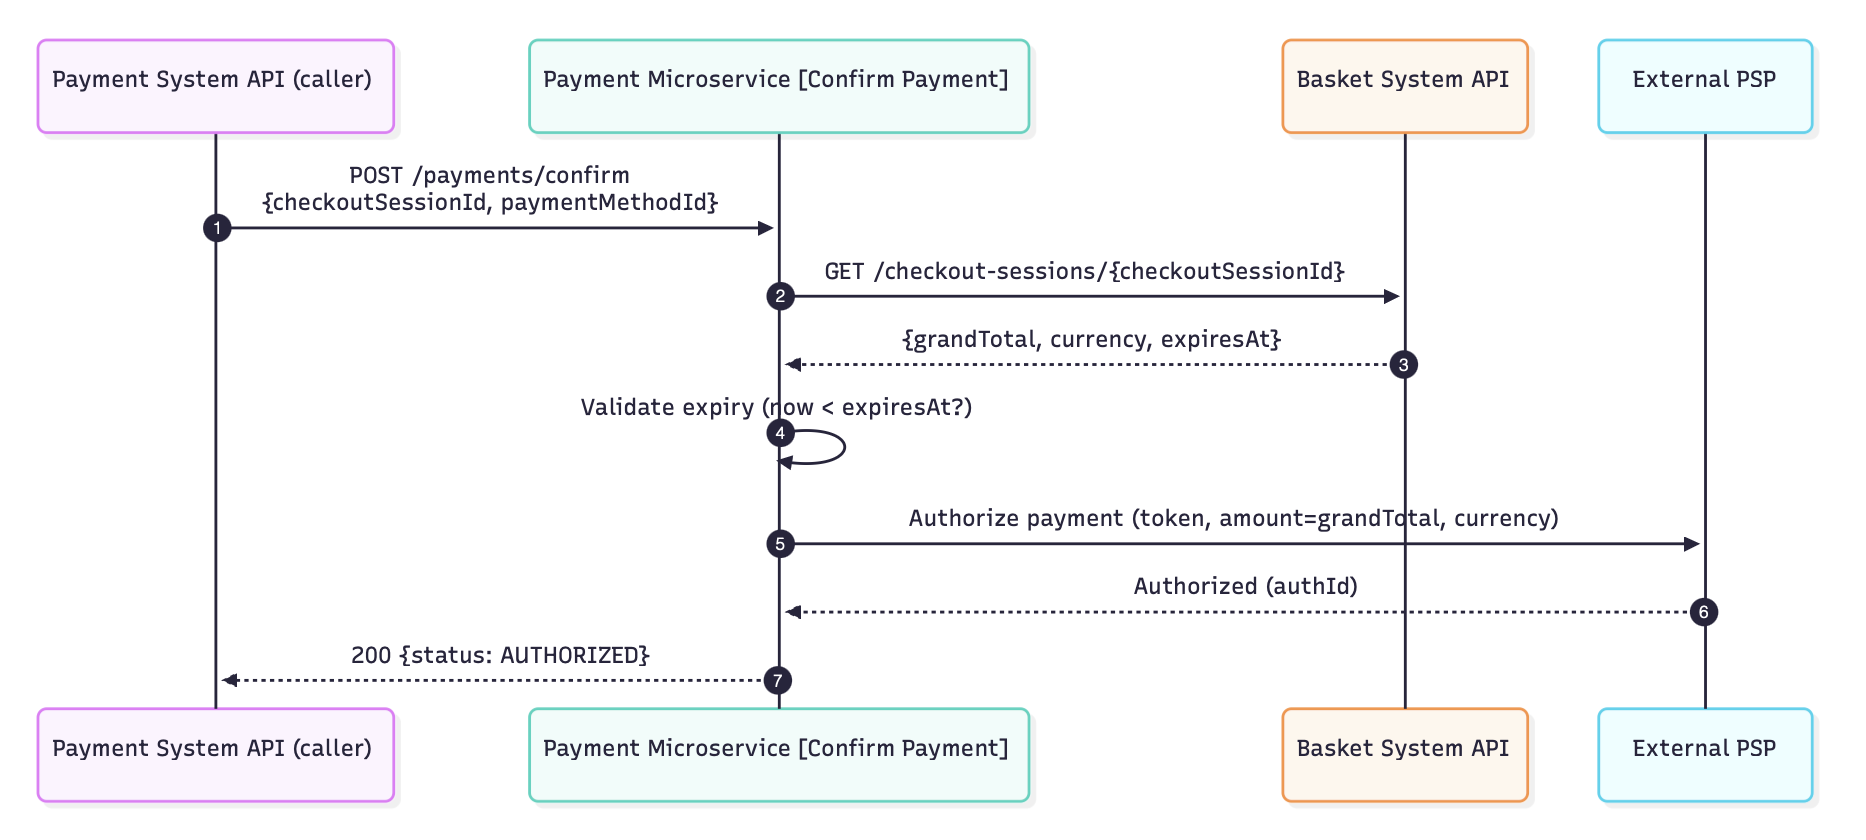
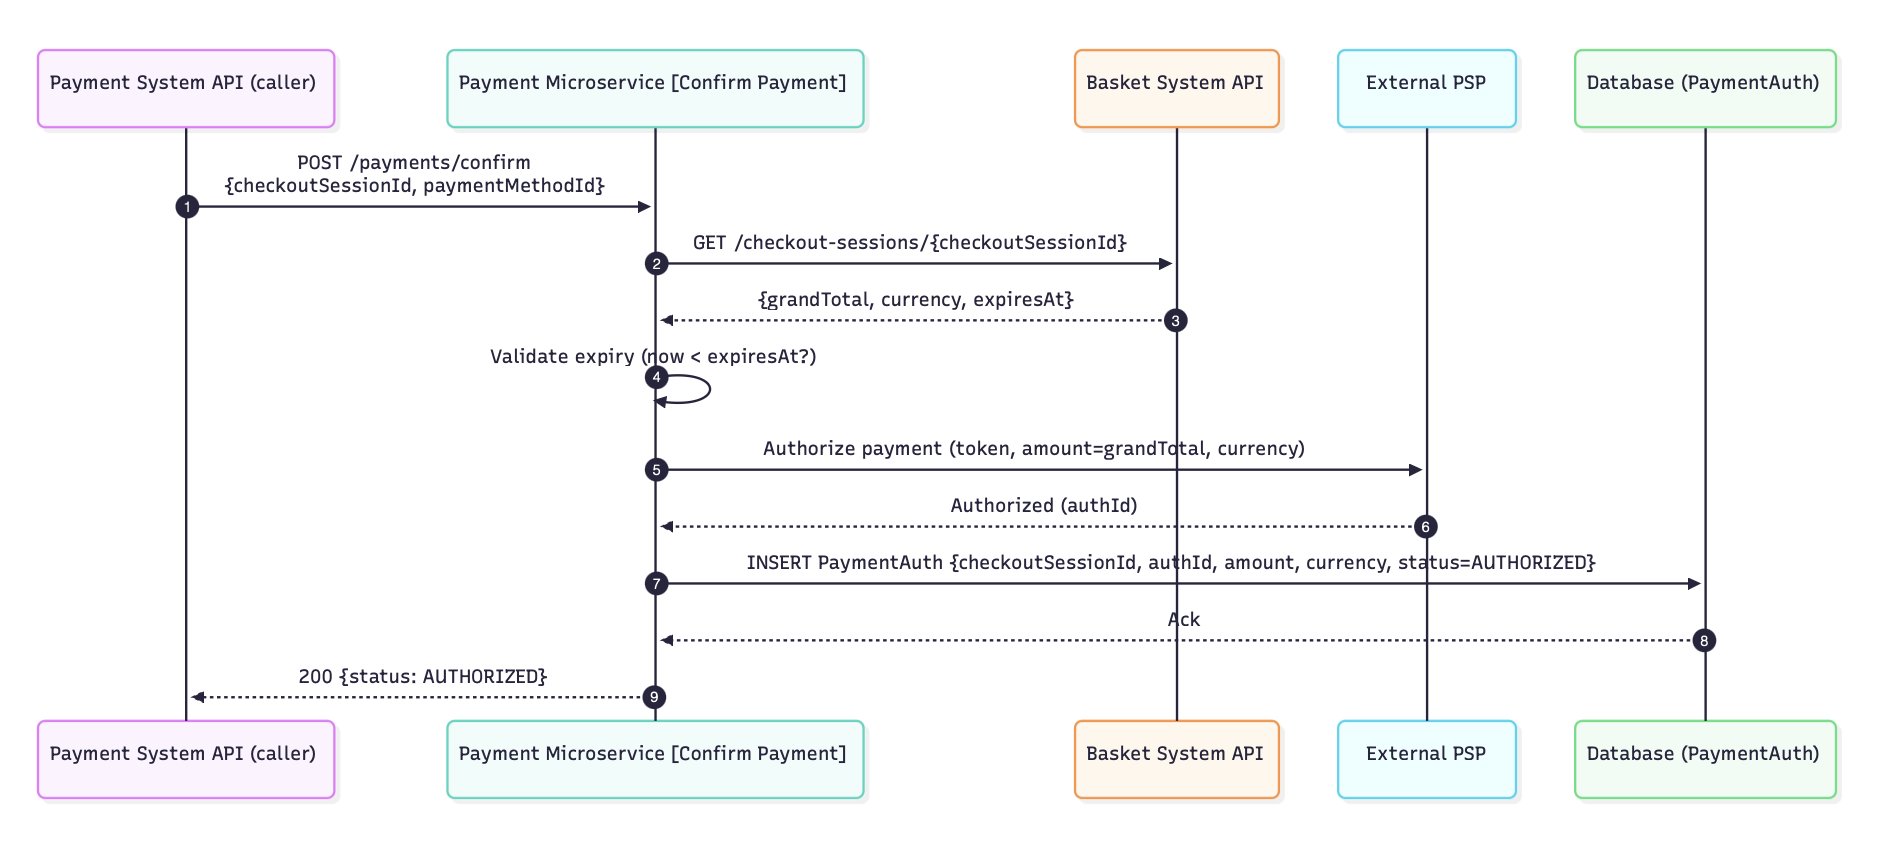
test

Changed region(s): [[0.0, 0.031, 0.9946, 0.9595], [0.3419, 0.5881, 0.373, 0.619]]

diff --git a/4 - Microservices design/payment_service.md b/4 - Microservices design/payment_service.md
@@ -1,10 +1,10 @@
-### Purpose
+### 1. Purpose
 
 The Payment microservice handles authorization and capture of payments.
 It integrates with an external PSP (Payment Service Provider).
 
 
-### Interfaces Owned
+### 2. Interfaces Owned
 
 | Operation                     | Method & URI                          | Description                                                      | Database Tables Used       | Schemas |
 |------------------------------|---------------------------------------|------------------------------------------------------------------|----------------------------|---------|
@@ -12,7 +12,7 @@ It integrates with an external PSP (Payment Service Provider).
 | Capture Payment              | `POST /payments/{authId}/capture`     | Captures a previously authorized payment (full capture in scope).| `PaymentAuth`             | Refer to **Payment System API** service contract |
 
 
-### Internal Design of Interfaces
+### 3. Internal Design of Interfaces
 
 
 ##### Confirm Payment (Authorize)
@@ -23,3 +23,6 @@ It integrates with an external PSP (Payment Service Provider).
 
 ##### Capture Payment (Authorize)
 
+<p align="center">
+  <img src="../images/ms_design_payment_2.png" alt="erd"/>
+</p>
